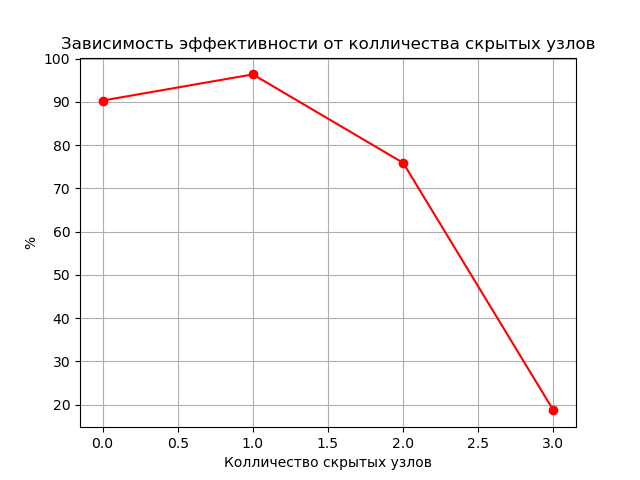
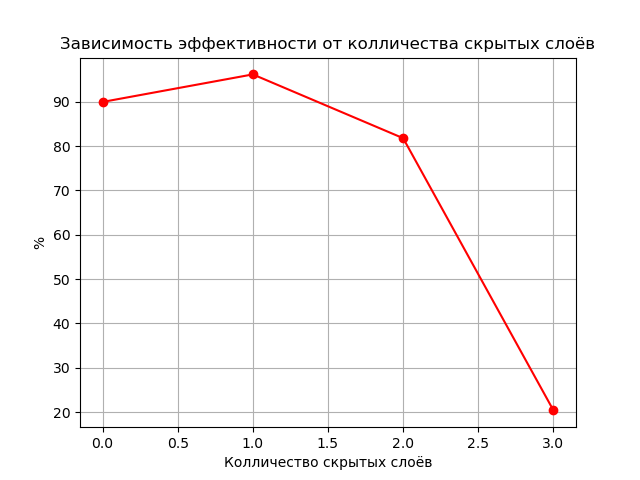
rename some files

diff --git a/statistic_hn_len.py b/statistic_hn_len.py
@@ -9,8 +9,8 @@ for i in hn:
     per.append(train_and_query(0.2, "data_set/mnist_train.csv", "data_set/mnist_test.csv", i))
 plt.plot(len_hn, per, 'o-r')
 print(per)
-plt.title("Зависимость эффективности от колличества скрытых узлов")
-plt.xlabel('Колличество скрытых узлов')
+plt.title("Зависимость эффективности от колличества скрытых слоёв")
+plt.xlabel('Колличество скрытых слоёв')
 plt.ylabel('%')
 plt.grid()
 plt.show()
